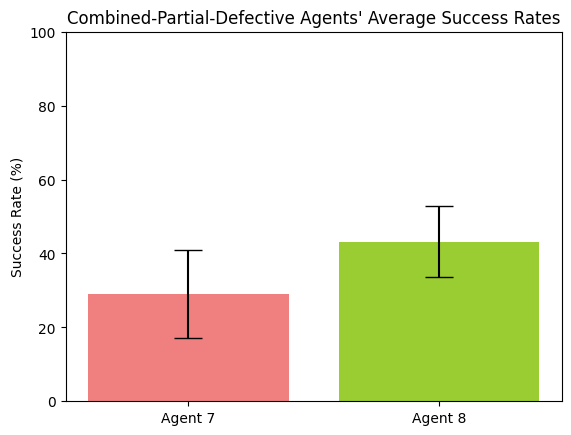
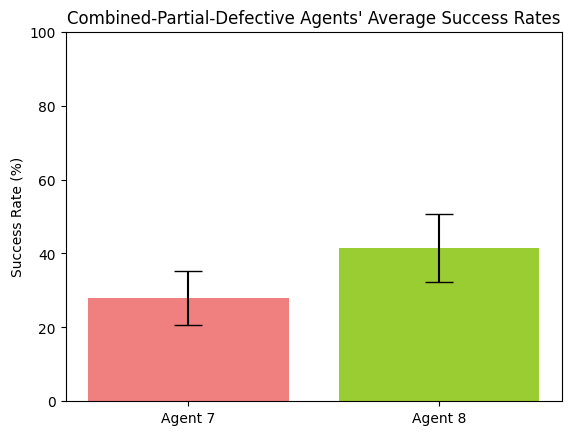
data collection :)

diff --git a/game/agents/agent8c.py b/game/agents/agent8c.py
@@ -81,7 +81,7 @@ class Agent8C(Agent2):
             potential_predator_distance = self.bfs(
                 graph, self.location, potential_pred.location)
 
-            if potential_predator_distance > 3 or self.pred_beliefs[action] <= 0.3 or self.prey_beliefs[action] >= 0.3:
+            if potential_predator_distance > 3 or self.pred_beliefs[action] <= 0.4 or self.prey_beliefs[action] >= 0.2:
                 self.location = action
         return len(self.prev_preys), len(self.prev_preds)
 
